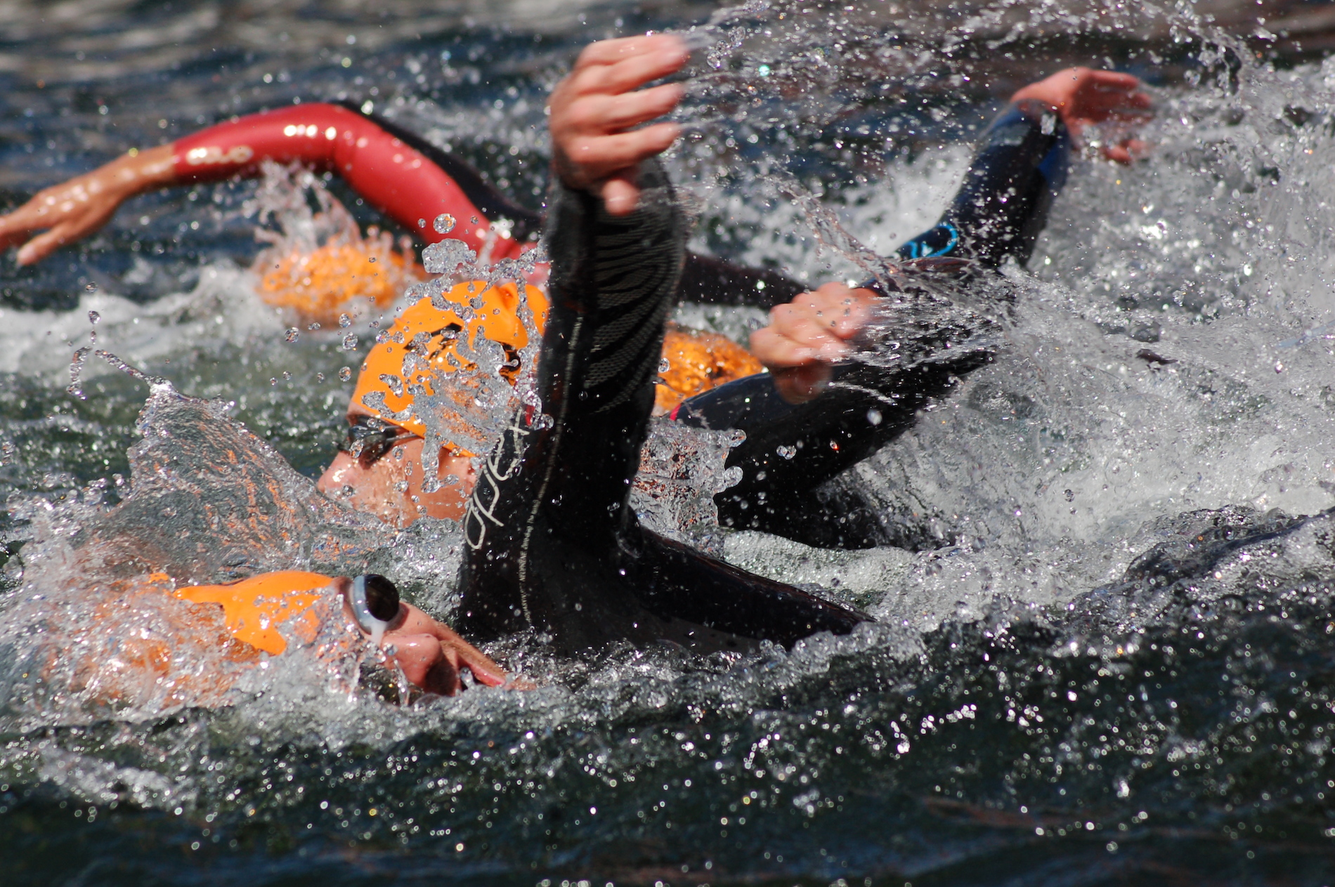
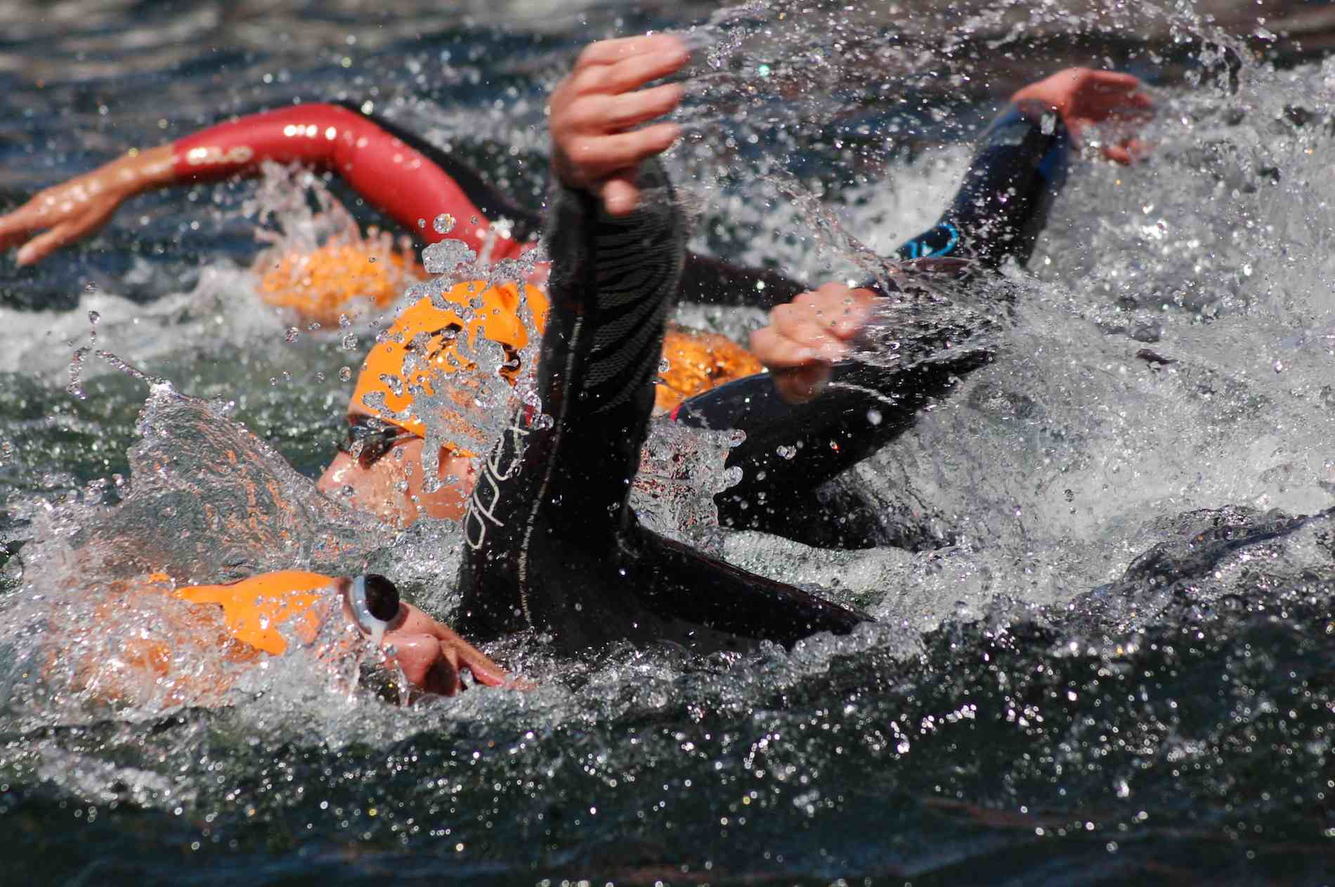
optimized images, mission, member list order

diff --git a/public/partials/member.html b/public/partials/member.html
@@ -7,11 +7,10 @@
       <div class="col-md-8">
         <h2>Member List</h2>
         <table id="member-table" class="table table-responsive">
-          <tr ng-repeat="(id, member) in members" ng-if="member.isMember">
+          <tr ng-repeat="member in members|orderByDisplayName" ng-if="member.isMember">
             <td><img ng-src="{{member.avatar}}" class="img-circle"/></td>
             <td> {{member.displayName}}</td>
-            <td>{{member.email}}</td>
-            <td>{{member.phone}}</td>
+            <td>{{member.email}} <br>{{member.phone}}</td>
           </tr>
         </table>
       </div>

diff --git a/public/js/member.js b/public/js/member.js
@@ -136,4 +136,17 @@ angular.module('rocktriclub')
     }
   })
 
+  .filter('orderByDisplayName', function() {
+    return function(obj) {
+      var array = [];
+      Object.keys(obj).forEach(function(key) {
+        if (typeof obj[key] === 'object') array.push(obj[key]);
+      });
+      array.sort(function(a, b) {
+        if(a.displayName < b.displayName) return -1;
+        if(a.displayName > b.displayName) return 1;
+        return 0;
+      });
+      return array;
+  }});
 

diff --git a/public/css/style.css b/public/css/style.css
@@ -33,8 +33,8 @@
 }
 
 #member-table td {
-    line-height: 48px;
-    font-size: 20px;
+    line-height: 25px;
+    font-size: 18px;
 }
 
 .main-view > .container {
